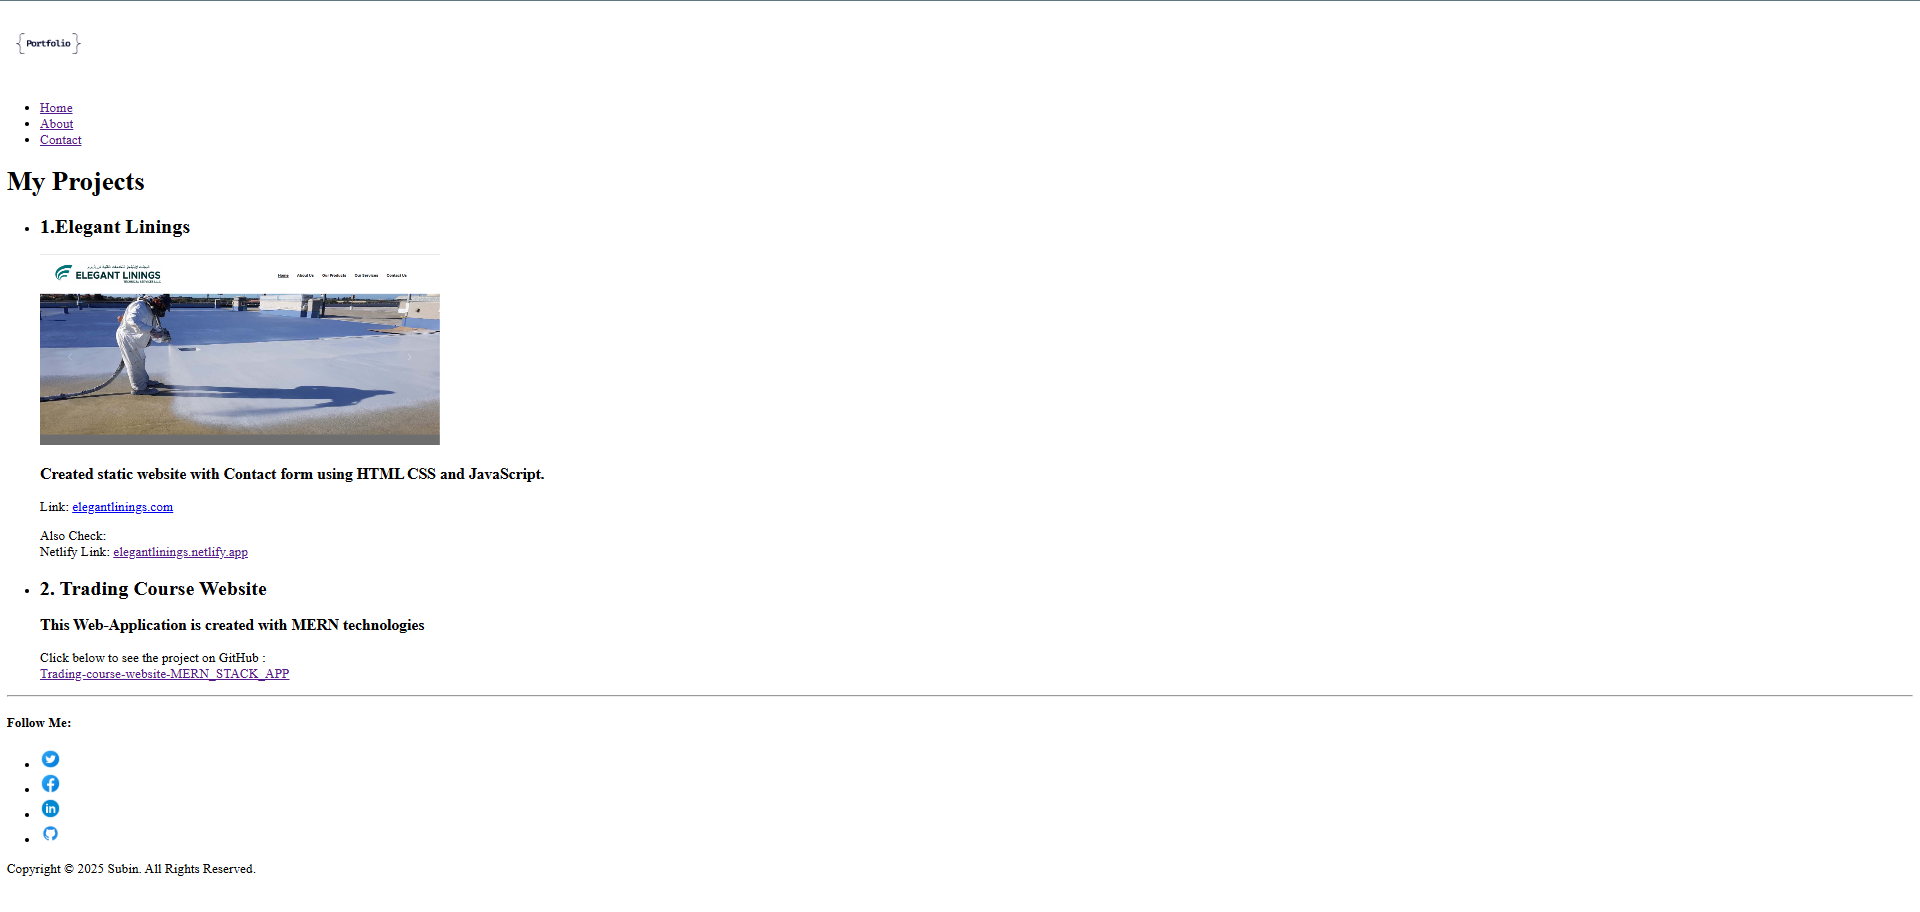
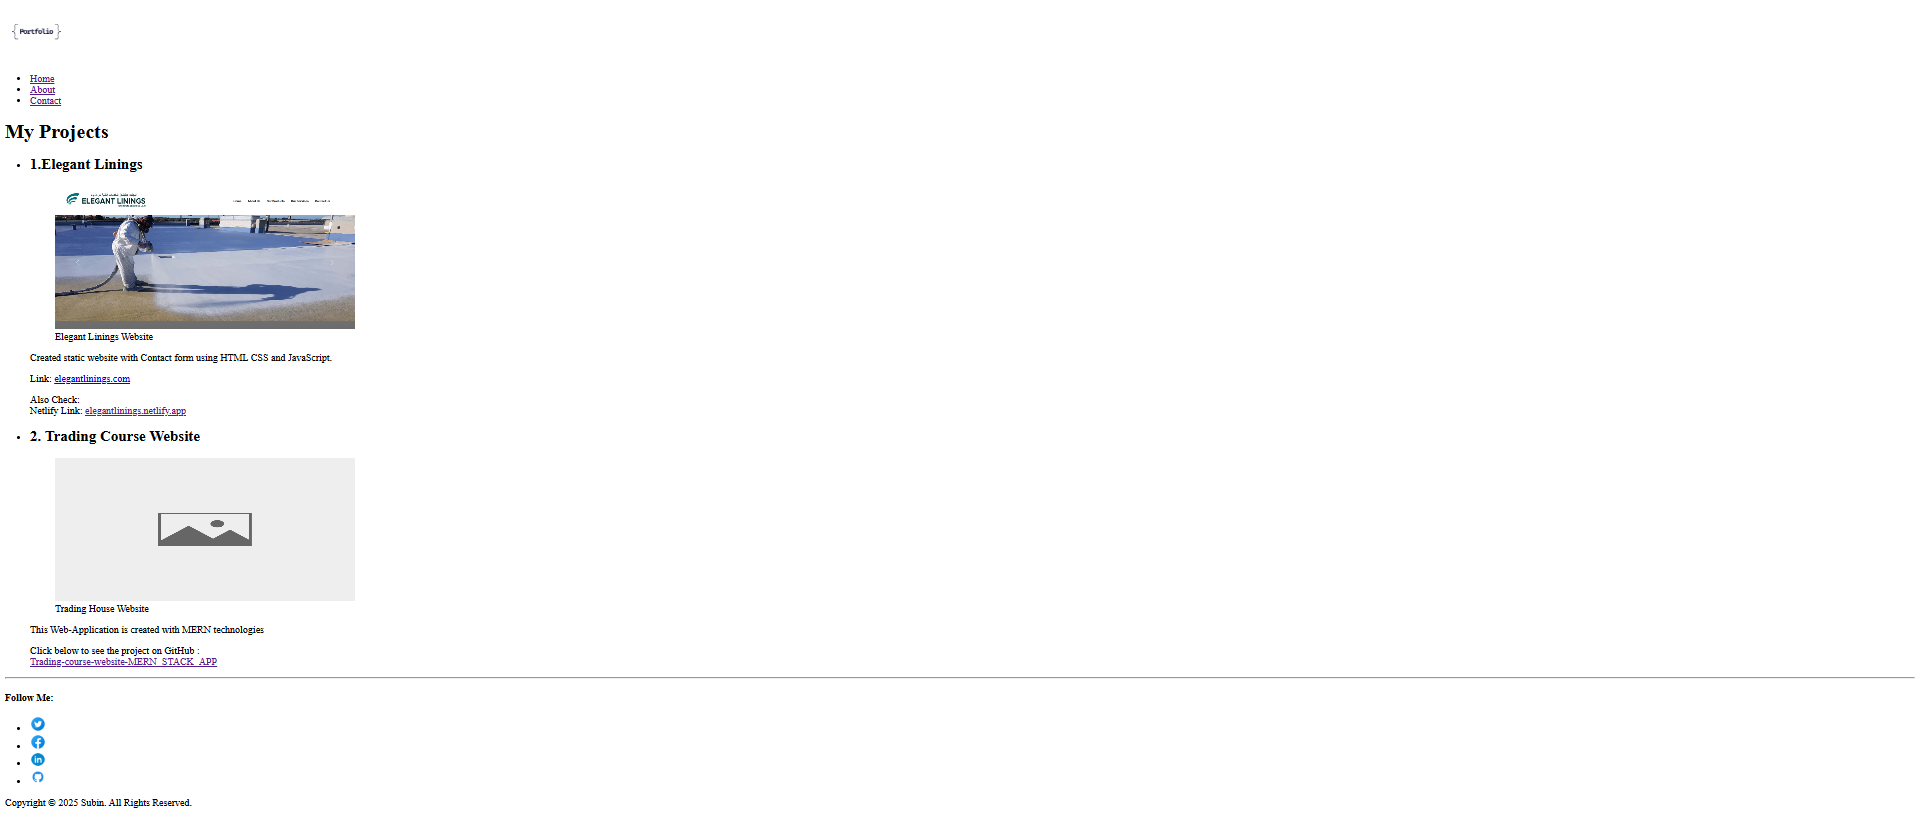
Modified code and added new image

Changed region(s): [[0.0, 0.092, 0.2812, 1.0], [0.0, 0.0307, 0.0312, 0.0613]]

diff --git a/project.html b/project.html
@@ -35,46 +35,76 @@
 
         <!-- List of Projects  -->
         <ul>
-            <!-- First Project -->
+
             <li>
-                <!-- Project Name -->
-                <h2>1.Elegant Linings</h2>
+                <!-- First Project -->
+                <article>
+                    <!-- Project Name -->
+                    <h2>1.Elegant Linings</h2>
 
-                <!-- Image of Project  -->
-                <img src="/images/project-elegant.png" alt="Image of Elegant Linings Website" width="480">
+                    <!-- Image of Project  -->
+                    <figure>
 
-                <!-- Short Description of Project -->
-                <h3>Created static website with Contact form using HTML CSS and JavaScript.</h3>
+                        <img src="/images/project-elegant.png" alt="Image of Elegant Linings Website" width="480">
 
-                <!-- Link of Project or Website -->
-                <p>
-                    Link:
-                    <a href="https://www.elegantlinings.com/" target="_blank">elegantlinings.com</a>
-                </p>
+                        <figcaption>
+                            Elegant Linings Website
+                        </figcaption>
 
-                <!-- Link of Website Deployed in Netlify -->
-                <p>Also Check:
-                    <br>
-                    Netlify Link:
-                    <a href="https://elegantlinings.netlify.app" target="_blank">elegantlinings.netlify.app</a>
-                </p>
+                    </figure>
+
+                    <!-- Short Description of Project -->
+                    <p>
+                        Created static website with Contact
+                        form using HTML CSS and JavaScript.
+                    </p>
+                    <!-- Link of Project or Website -->
+                    <p>
+                        Link:
+                        <a href="https://www.elegantlinings.com/" target="_blank">elegantlinings.com</a>
+                    </p>
+                    <!-- Link of Website Deployed in Netlify -->
+                    <p>Also Check:
+                        <br>
+                        Netlify Link:
+                        <a href="https://elegantlinings.netlify.app" target="_blank">elegantlinings.netlify.app</a>
+                    </p>
+                </article>
             </li>
 
-            <!-- Second Project  -->
+
             <li>
-                <!-- Project Name -->
-                <h2>2. Trading Course Website</h2>
+                <!-- Second Project section -->
+                <article>
 
-                <!-- Short Descrption of Project -->
-                <h3>This Web-Application is created with MERN technologies</h3>
+                    <!-- Project Name -->
+                    <h2>2. Trading Course Website</h2>
 
-                <!-- GitHub Project Link -->
-                <p>Click below to see the project on GitHub : <br>
+                    <!-- Image of Project  -->
+                    <figure>
 
-                    <a href="https://github.com/Subinfasliya/Trading-course-website-MERN_STACK_APP" target="_blank">
-                        Trading-course-website-MERN_STACK_APP
-                    </a>
-                </p>
+                        <img src="images/image-not-found.jpg" alt="Trading House website preview not available"
+                            width="480" height="229" title="No Image available">
+
+                        <figcaption>
+                            Trading House Website
+                        </figcaption>
+
+                    </figure>
+
+                    <!-- Short Descrption of Project -->
+                    <p>This Web-Application is created with MERN technologies</p>
+
+                    <!-- GitHub Project Link -->
+                    <p>
+                        Click below to see the project on GitHub :
+                        <br>
+                        <a href="https://github.com/Subinfasliya/Trading-course-website-MERN_STACK_APP" target="_blank">
+                            Trading-course-website-MERN_STACK_APP
+                        </a>
+                    </p>
+
+                </article>
 
             </li>
         </ul>
@@ -85,7 +115,7 @@
 
     <!-- Footer section -->
     <footer>
-        <h4>Follow Me: </h4>
+        <h3>Follow Me: </h3>
 
         <!-- social media links  -->
         <nav>
@@ -116,7 +146,7 @@
 
                 <li>
                     <!-- Link for GitHub Icon -->
-                    <a href="https://github.com/Subinfasliya/Trading-course-website-MERN_STACK_APP" target="_blank">
+                    <a href="https://github.com/Subinfasliya" target="_blank">
                         <img src="images/github-icon.png" alt="Visit my GitHub profile" width="25">
                     </a>
                 </li>

diff --git a/contact.html b/contact.html
@@ -93,7 +93,7 @@
 
     <!-- Footer section -->
     <footer>
-        <h4>Follow Me: </h4>
+        <h3>Follow Me: </h3>
 
         <!-- social media links  -->
         <nav>
@@ -118,13 +118,13 @@
                     <!-- Link for Linkedin Icon -->
                     <a href="https://www.linkedin.com/in/subin-t-s-049496255/" target="_blank">
                         <img src="images/linkedin-icon.png" alt="Visit my Linkedin profile" width="25">
-
                     </a>
+
                 </li>
 
                 <li>
                     <!-- Link for GitHub Icon -->
-                    <a href="https://github.com/Subinfasliya/Trading-course-website-MERN_STACK_APP" target="_blank">
+                    <a href="https://github.com/Subinfasliya" target="_blank">
                         <img src="images/github-icon.png" alt="Visit my GitHub profile" width="25">
                     </a>
                 </li>

diff --git a/about.html b/about.html
@@ -85,7 +85,7 @@
 
     <!-- Footer section -->
     <footer>
-        <h4>Follow Me: </h4>
+        <h3>Follow Me: </h3>
 
         <!-- social media links  -->
         <nav>
@@ -116,7 +116,7 @@
 
                 <li>
                     <!-- Link for GitHub Icon -->
-                    <a href="https://github.com/Subinfasliya/Trading-course-website-MERN_STACK_APP" target="_blank">
+                    <a href="https://github.com/Subinfasliya" target="_blank">
                         <img src="images/github-icon.png" alt="Visit my GitHub profile" width="25">
                     </a>
                 </li>

diff --git a/index.html b/index.html
@@ -47,7 +47,7 @@
     <hr>
 
     <footer>
-        <h4>Follow Me: </h4>
+        <h3>Follow Me: </h3>
 
         <!-- social media links  -->
         <nav>
@@ -78,7 +78,7 @@
 
                 <li>
                     <!-- Link for GitHub Icon -->
-                    <a href="https://github.com/Subinfasliya/Trading-course-website-MERN_STACK_APP" target="_blank">
+                    <a href="https://github.com/Subinfasliya" target="_blank">
                         <img src="images/github-icon.png" alt="Visit my GitHub profile" width="25">
                     </a>
                 </li>
